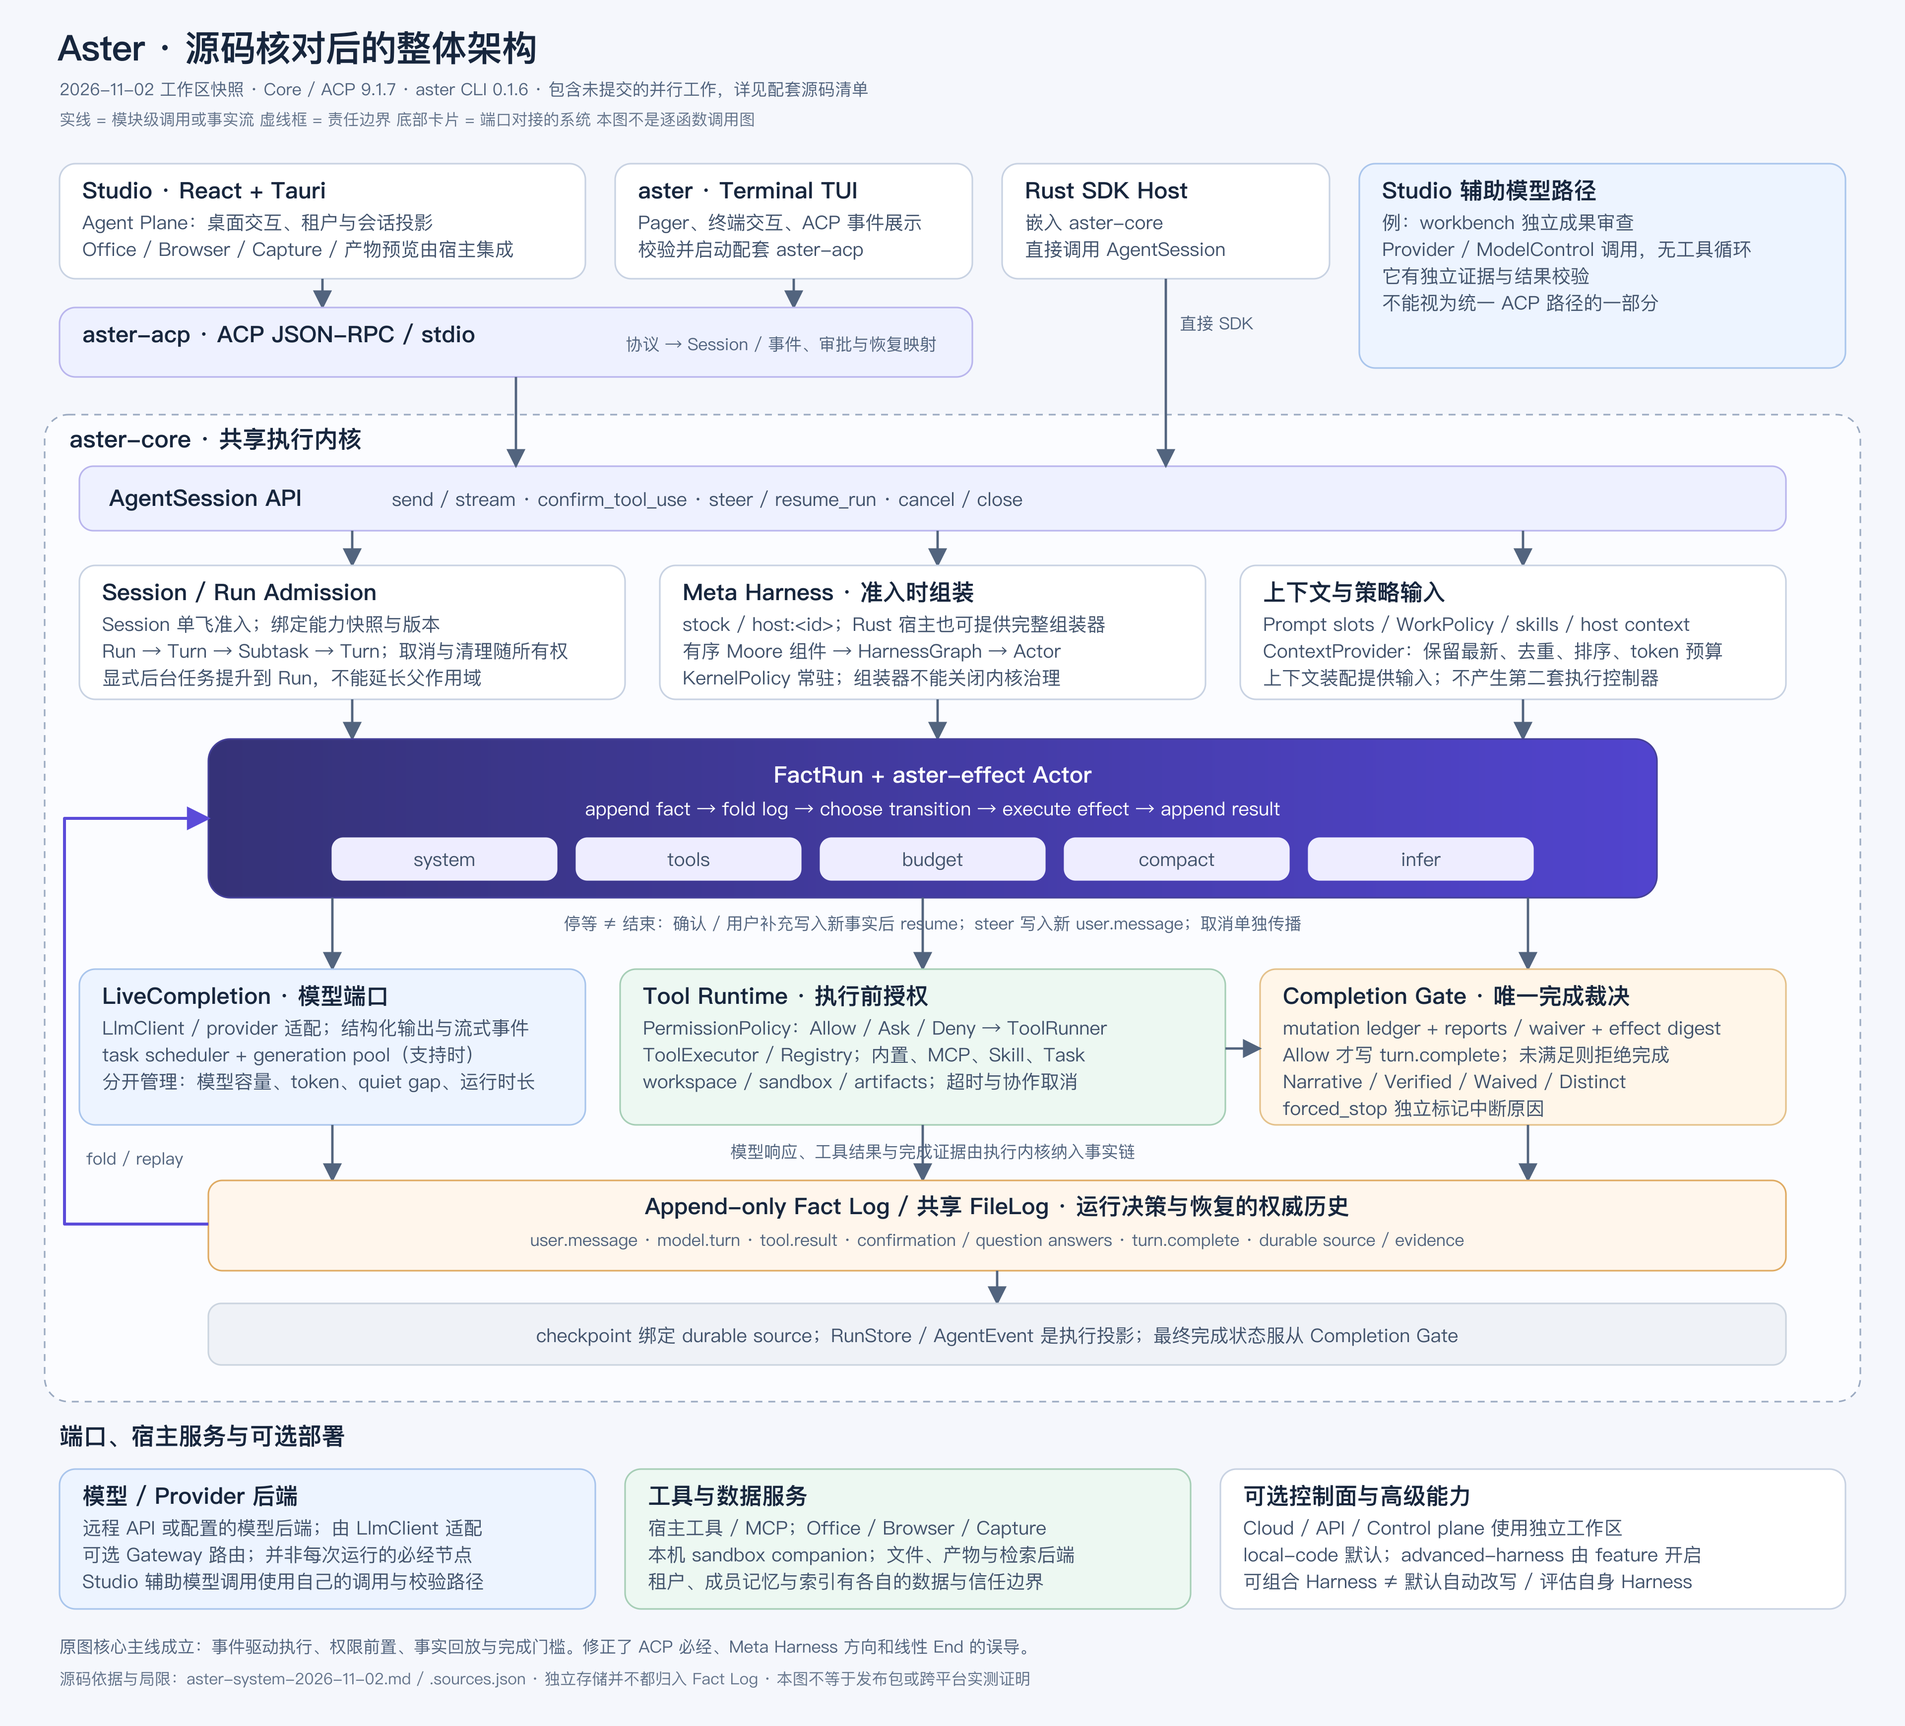
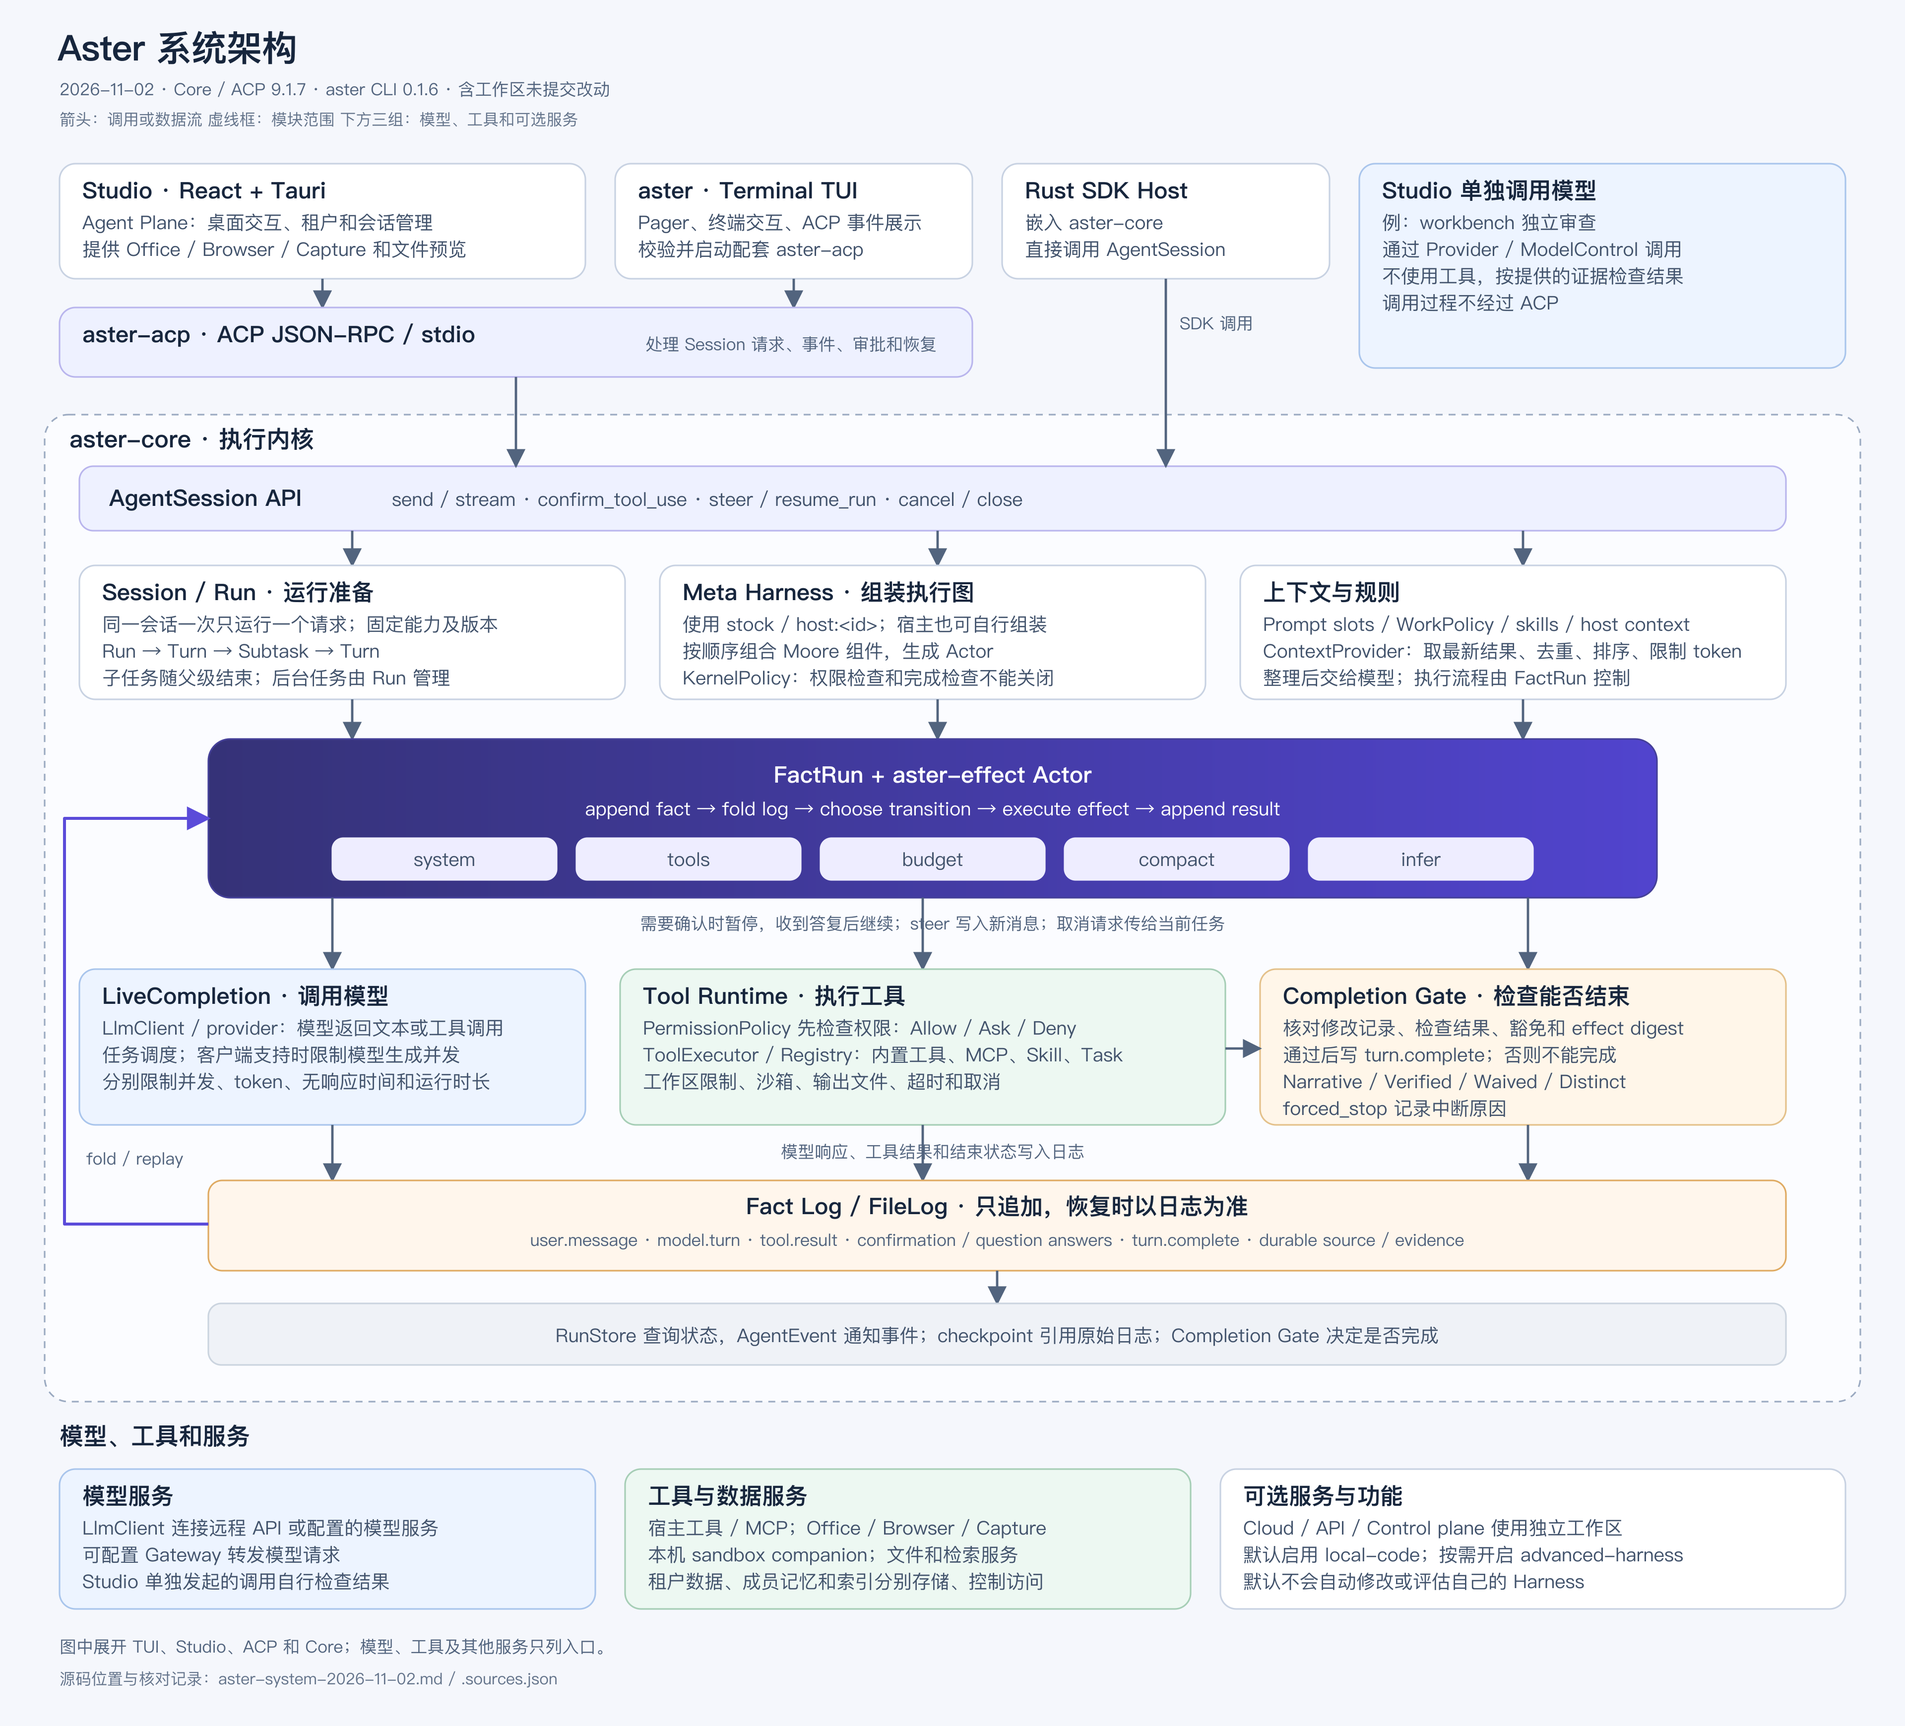
docs(architecture): use plain wording in diagram and notes

diff --git a/docs/architecture/aster-system-2026-11-02.md b/docs/architecture/aster-system-2026-11-02.md
@@ -1,67 +1,64 @@
-# Aster 整体架构核对（2026-11-02）
+# Aster 架构说明（2026-11-02）
 
-原图抓住了 Core 的主线：FactRun 驱动 effect actor，事实日志支持折叠与恢复，
-工具执行前检查权限，完成裁决由 Core 保留。因此，它适合作为执行内核的概览。
-它没有完整表示当前 Aster 产品架构；入口、组装顺序和结束状态需要修正。
+原图大体画对了 Core 的执行流程。有几处需要改：Rust SDK 不必经过 ACP，
+Meta Harness 应该放在 Actor 之前，运行结束也不一定代表验证通过。
+新版补上了这些区别，以及原图没画出的调度、子任务和外部服务。
 
 [新版 PNG](aster-system-2026-11-02.png) ·
 [可编辑 SVG](aster-system-2026-11-02.svg) ·
-[源码快照与摘要](aster-system-2026-11-02.sources.json)
+[源码版本与文件哈希](aster-system-2026-11-02.sources.json)
 
 ![Aster current architecture](aster-system-2026-11-02.png)
 
-## 核对范围
+## 看的哪份代码
 
-本次读取当前工作区的实际入口与直接依赖，包括 Terminal、ACP、Core、Studio
-Agent Plane、独立成果审查器、工作区与 feature 清单。主仓库基准为
-`453506a2a`，Studio 基准为 `57d3335f2`。工作区包含其他会话的未提交改动；
-配套 JSON 逐文件记录完整提交号、SHA-256 和与 HEAD 的差异。
+核对了 Terminal、ACP、Core、Studio Agent Plane、workbench 独立审查的入口和
+直接调用的代码，也看了 Cargo 工作区和 feature 配置。主仓库提交为
+`453506a2a`，Studio 提交为 `57d3335f2`，读取的工作区还包含其他会话的未提交改动。
+JSON 记录了当时的提交号、文件 SHA-256，以及文件是否与 HEAD 一致。
 
-原图绑定 `8729d7c84a2d…` 与 9.1.6。本次判断针对当前源码，未复原该历史提交。
-当前包名为 `aster-core`、`aster-acp`，两者清单版本为 9.1.7；`aster` CLI
-清单版本为 0.1.6。它们不是一个统一的产品版本号，也不证明已发布这些版本。
+原图标注的是 `8729d7c84a2d…` 和 9.1.6；本次没有检出那份历史代码。
+当前 Cargo.toml 中，`aster-core`、`aster-acp` 的版本为 9.1.7，
+`aster` CLI 为 0.1.6。这些是包版本，是否已发布要另查 Release。
 
 ## 原图与当前源码的差异
 
-| 项目 | 核对结论 | 新图表达 |
-| --- | --- | --- |
-| TUI / Studio / Rust Host 都经过 ACP | 过度合并。Terminal 启动 ACP companion，Studio Agent Plane 也启动 ACP；Rust 宿主可以直接调用 `AgentSession`。 | ACP 路径与直接 SDK 路径分开。 |
-| Actor → Meta Harness | 顺序有误。`open_composed_with_hosts` 先准入并组装图，再创建 Actor。Meta Harness 不是执行后的业务模块。 | Meta Harness 位于准入阶段，指向 Actor。 |
-| 固定五个组件 | 这描述默认 stock 组合。Rust 宿主还能挂载 `host:<id>` 或提供完整 assembler；内核治理仍不可清除。 | 保留默认组件，单列宿主扩展与 KernelPolicy。 |
-| 单一事实日志 | 对运行决策和恢复成立，不代表所有产品数据都存入一个日志。`RunStore` 与 `AgentEvent` 是执行投影；记忆、索引、产物和宿主数据各有合同。 | 权威历史、投影、恢复引用与外部数据分开。 |
-| 完成 → 验证后写 turn.complete → End | 过度简化。无修改的回答可以是 `Narrative`；`Verified`、`Waived`、`Distinct` 含义不同。确认、用户问题、后台任务和中断也不是同一个 End。 | 明确等待 / 恢复、完成门槛和独立 forced-stop 原因。 |
-| SessionOptions 冻结运行配置 | 不足以表达当前准入边界。还需要绑定能力版本、Run / Turn / Subtask 所有权及清理。 | 增加能力快照与作用域层次。 |
-| budget 一个方块 | 适合作为 stock 组件名，不足以解释系统容量。任务调度、模型生成容量、工具轮数、单工具超时、上下文和运行时长有不同的所有者。 | 在模型 / 工具端口标出各维度，未合并成新 Budget 框架。 |
-| 整个 Studio 都走 Core 循环 | 不成立。workbench 独立成果审查器通过 Provider / ModelControl 发起无工具调用，并自行校验证据和结果。 | 单列辅助模型路径。 |
-| 整体 Aster | 原图主要画了代码执行内核。Office、Browser、Capture、模型后端、sandbox companion 与可选控制面缺失。 | 补上端口对接系统，避免把它们画成每次运行都经过的链。 |
+| 原图 | 当前实现 |
+| --- | --- |
+| TUI / Studio / Rust Host 都经过 ACP | Terminal 和 Studio Agent Plane 启动 ACP；Rust 宿主可以直接调用 `AgentSession`。 |
+| Actor → Meta Harness | `open_composed_with_hosts` 先组装执行图，再创建 Actor，箭头应反过来。 |
+| 固定五个组件 | 五个是默认 stock 组合。Rust 宿主可挂载 `host:<id>`，也可自行组装；权限检查和完成检查始终保留。 |
+| 单一事实日志 | 运行决策和恢复以 Fact Log 为准。`RunStore` 用于查状态，`AgentEvent` 用于通知事件；记忆、索引和文件另行存储。 |
+| 完成 → 验证后写 turn.complete → End | 无修改的回答可以是 `Narrative`。`Verified` 表示检查通过，`Waived` 表示豁免，`Distinct` 表示各步骤使用不同的 effect digest。还需要画出等待、恢复和中断。 |
+| SessionOptions 冻结运行配置 | 运行前还会固定能力列表和版本。Run / Turn / Subtask 分层管理，父级结束时清理子级；显式后台任务归 Run 管理。 |
+| budget 一个方块 | 这只是默认组件之一。任务并发、模型生成并发、工具轮数、单工具超时、上下文长度和运行时长分别在不同位置处理。 |
+| 整个 Studio 都走 Core 循环 | workbench 独立审查通过 Provider / ModelControl 调用模型，不使用工具，并自行检查证据和返回结果。 |
+| 整体 Aster | 原图主要画了 Core。新版另列 Office、Browser、Capture、模型服务、sandbox companion 和可选控制面。 |
 
 ## 当前设计是否合理
 
-核心责任划分合理：协议适配放在 ACP，事实驱动执行放在 Core，宿主提供交互与
-能力，权限与完成裁决保留在内核。可组合执行图与不可移除的治理门槛可以共存，
-不需要再添加一层总控 Agent。原图关于“可组合 Harness 不等于默认自动修改自身
-Harness”的谨慎表述仍应保留。
+这样分工是合理的：ACP 处理协议，Core 执行请求，宿主提供界面和工具。
+宿主能调整执行图，但权限检查和完成检查仍由 Core 负责。
+默认流程也不会自动修改或评估自己的 Harness。
 
-需要完善的是架构合同的表达和验证覆盖。以下两项是已确认的文档问题：
+文档有两处已经跟不上代码：
 
 1. `core-authorities.md` 仍称源码相对 `apps/code/core/src/`，实际目录已经是
-   `crates/code/core/src/`。原图中的包名和版本也未覆盖当前清单。
+   `crates/code/core/src/`。原图中的包名和版本也需要更新。
 2. 该文档的预算表称 FactRun 的 `tool_timeout_ms` 尚未验证。当前调用链是
    `ExecutorTools → execute_tool_queued_or_direct → execute_tool_timed / ToolCommand`，
-   已传递 `self.config.tool_timeout_ms`。旧表不能作为“工具超时没有执行”的证据。
-   这次源码追踪也不等于对所有工具、排队、嵌套与取消情形的运行时证明。
+   已传递 `self.config.tool_timeout_ms`。因此，不能仅凭这张旧表就说工具没有超时限制。
+   本次只查了调用代码，没有逐一测试所有工具的排队、嵌套和取消行为。
 
-以下是设计评估和后续建议，不是已复现的运行时缺陷：
+后续建议：
 
-- 维护现有预算表，按“维度、单位、所有者、生效入口、测试”校准事实。先修表和
-  缺失的路径证明；没有证据要求引入统一预算抽象。
-- 为 Core agent turn 与 Studio 辅助模型调用分别声明容量、超时、取消、用量和
-  结果校验责任。辅助路径已有独立超时和结果校验，不能据此称其不受控；也不能
-  假定 Core 的门槛和观测会自动覆盖它。
-- 把 `Verified` 理解为已声明检查对绑定的 effect digest 通过。它不是所有用户
-  需求、文件内容、视觉质量或事实正确性的通用证明。宿主需选择与交付物相符的检查。
-- 恢复文档应保留事实源、checkpoint、会话快照与投影的区别。实时进度事件可以
-  由执行过程直接产生；新图的聚合连线不表示每个进度事件都先写入 Fact Log。
+- 更新现有预算表，写清每种限制的单位、在哪里生效、由哪个测试检查。
+- 分别说明 Core 和 Studio 单独调用模型时，如何处理并发、超时、取消和用量。
+  Studio 这类调用已有自己的超时和结果检查；Core 的检查不会自动替它完成。
+- 按任务选择检查方法。`Verified` 只表示声明的检查对指定 effect digest 通过，
+  文件内容、事实和视觉效果是否正确，还要有相应的检查。
+- 在恢复文档里区分 Fact Log、checkpoint、会话快照、状态查询和事件通知。
+  执行过程中可直接发送进度事件，并非每条事件都先写入 Fact Log。
 
 ## 源码依据
 
@@ -70,29 +67,26 @@ Harness”的谨慎表述仍应保留。
 | Terminal 启动配套 ACP | [aster_spawn.rs](../../crates/terminal/crates/codegen/aster-pager/src/acp/aster_spawn.rs#L57) |
 | Studio Agent Plane 启动 ACP | [turns.rs](../../apps/studio/src-tauri/src/agent_plane/turns.rs#L4213) |
 | Rust 宿主直接 send / stream | [session_facade.rs](../../crates/code/core/src/agent_api/session_facade.rs#L270) |
-| Session 单飞与共享事实日志 | [run_admission.rs](../../crates/code/core/src/agent_api/run_admission.rs#L1) |
+| 同一会话一次只接受一个请求，复用同一份日志 | [run_admission.rs](../../crates/code/core/src/agent_api/run_admission.rs#L1) |
 | 先组装图，再打开 FactRun | [fact_control.rs](../../crates/code/core/src/fact_control.rs#L1010) |
-| 默认组件、宿主 assembler、不可清除的 KernelPolicy | [meta_harness.rs](../../crates/code/core/src/meta_harness.rs#L124) |
+| 默认组件、宿主 assembler 和固定的 KernelPolicy | [meta_harness.rs](../../crates/code/core/src/meta_harness.rs#L124) |
 | Run / Turn / Subtask 生命周期 | [agent_execution.rs](../../crates/code/core/src/capability/agent_execution.rs#L13) |
 | 上下文去重、排序与预算 | [assembler.rs](../../crates/code/core/src/context/assembler.rs#L153) |
-| 模型生成容量准入 | [admission.rs](../../crates/code/core/src/llm/admission.rs#L229) |
+| 模型生成并发限制 | [admission.rs](../../crates/code/core/src/llm/admission.rs#L229) |
 | 工具权限、执行、运行时长与取消 | [executor_tools.rs](../../crates/code/core/src/fact_control/executor_tools.rs#L347) |
 | 单工具超时实际传递 | [tool_execution_runtime.rs](../../crates/code/core/src/agent/tool_execution_runtime.rs#L216) |
-| 完成状态及唯一裁决入口 | [harness_loop.rs](../../crates/code/core/src/harness_loop.rs#L54) |
-| 完成门槛与 turn.complete 写入 | [turn_outcome.rs](../../crates/code/core/src/agent_api/conversation_runtime/turn_outcome.rs#L205) |
+| 完成状态及判断函数 | [harness_loop.rs](../../crates/code/core/src/harness_loop.rs#L54) |
+| 完成检查与 turn.complete 写入 | [turn_outcome.rs](../../crates/code/core/src/agent_api/conversation_runtime/turn_outcome.rs#L205) |
 | Studio 无工具独立审查 | [workbench_reviewer.rs](../../apps/studio/src-tauri/src/agent_plane/workbench_reviewer.rs#L129) |
-| 运行历史、投影与预算的既有合同 | [core-authorities.md](../../crates/code/docs/architecture/core-authorities.md) |
+| 运行历史、状态副本和预算说明 | [core-authorities.md](../../crates/code/docs/architecture/core-authorities.md) |
 | 默认与高级功能开关 | [Core Cargo.toml](../../crates/code/core/Cargo.toml#L200) |
 | 根工作区与排除的控制面工作区 | [Cargo.toml](../../Cargo.toml#L1) |
 
-## 交付检查与局限
+## 做了哪些检查
 
-SVG 为可编辑矢量源，PNG 从该 SVG 使用仓库已有的 Sharp 渲染，尺寸为
-3840 × 3480。已重新打开 PNG 检查文字、边界、连线和裁切，并核对源码引用。
-SVG XML 可解析，文档链接与行号均有效。Playwright 几何检查未运行成功，
-原因是本机没有其要求的 Chromium；没有为此下载浏览器。
-没有添加依赖，也没有为绘图修改运行时代码。
+PNG 用仓库已有的 Sharp 从 SVG 生成，尺寸为 3840 × 3480。
+已打开图片检查文字、连线和裁切，检查了 SVG XML、文档链接和引用行号。
+本机缺少 Playwright 所需的 Chromium，因此没有完成浏览器中的几何检查。
 
-本次是模块级架构核对，不是全仓代码审计、所有 feature 组合的可达性证明、
-发行包检查或跨平台运行测试。图中可选系统不表示它们均已安装、启用或处于同一个
-进程。源码处于并行修改中；以后复用本图应先核对快照摘要和实际启用的 feature。
+本次没有做全仓审计、发行包检查或跨平台测试，也没有遍历所有 feature 组合。
+图中列出的可选服务不一定都已启用。以后更新这张图时，需要重新核对代码和构建配置。
